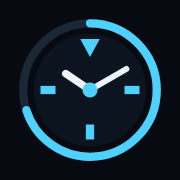
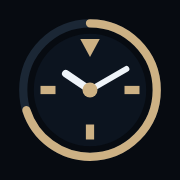
Switch accent to champagne gold
Gold replaces cyan across the site, the dial logo, favicon,
apple-touch-icon and the social preview image.

diff --git a/dial.js b/dial.js
@@ -4,7 +4,7 @@
  * seconds hand + seconds ring) and by the build script for static icons.
  */
 (function (root) {
-  const CYAN = '#4fd1ff';
+  const CYAN = '#cdb184'; // champagne gold (name kept from the original cyan logo)
   // site-wide accent; pages can override with <html data-accent="#hex">
   const ACCENT = (typeof document !== 'undefined' && document.documentElement.dataset.accent) || CYAN;
   const WHITE = '#eef3f8';

diff --git a/style.css b/style.css
@@ -6,7 +6,7 @@
   --line-2: #26374a;
   --text: #e9eef4;
   --muted: #8d99a8;
-  --accent: #4fd1ff;
+  --accent: #cdb184;
   --mono: "Space Mono", ui-monospace, monospace;
   --wide: Michroma, Eurostile, "Arial Black", sans-serif;
   color-scheme: dark;
